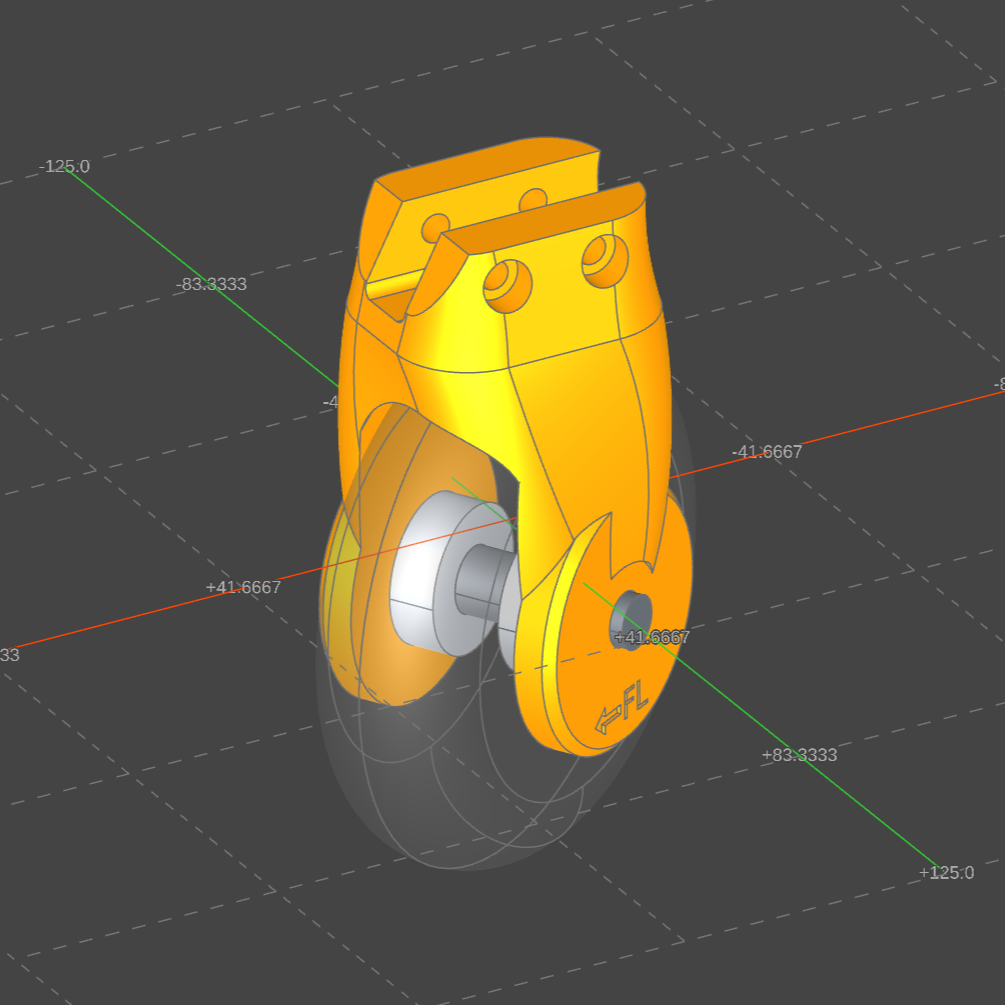
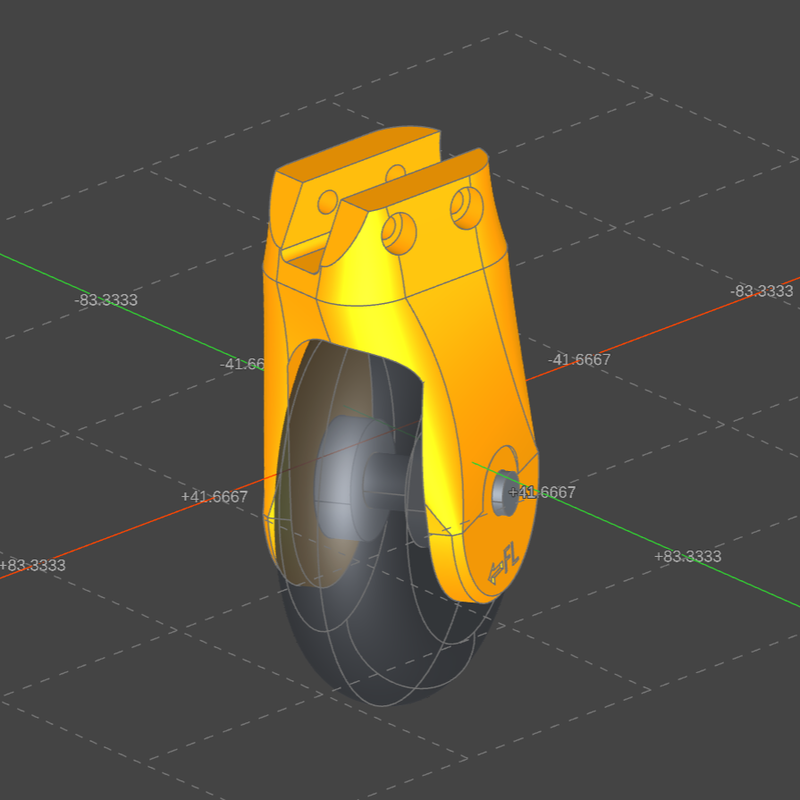
README images both 800x800 squares, the new viewer screenshot; viewer: charcoal wheel, grey tongue

diff --git a/wheel_foot.py b/wheel_foot.py
@@ -186,8 +186,8 @@ if __name__ == "__main__":
     from ocp_vscode import set_port, show
     set_port(3939)
     p = feet["FL"]  # shown: the front left, labelled
-    w.color, p.color = "dimgray", "orange"
-    t = F.tongue(); t.color = "steelblue"
+    w.color, p.color = "#34373c", "orange"
+    t = F.tongue(); t.color = "#b0b4ba"
     hw = hardware()
     show(p, w, t, *hw, names=["wheel_foot_FL", "wheel", "calf_tongue", "608_left", "608_right", "spacer", "axle"],
-         colors=["orange", "dimgray", "steelblue", "#c4c9cf", "#c4c9cf", "#8b9097", "#6b7178"], alphas=[1, 0.35, 1, 1, 1, 1, 1])
+         colors=["orange", "#34373c", "#b0b4ba", "#c4c9cf", "#c4c9cf", "#8b9097", "#6b7178"], alphas=[1, 0.85, 1, 1, 1, 1, 1])
